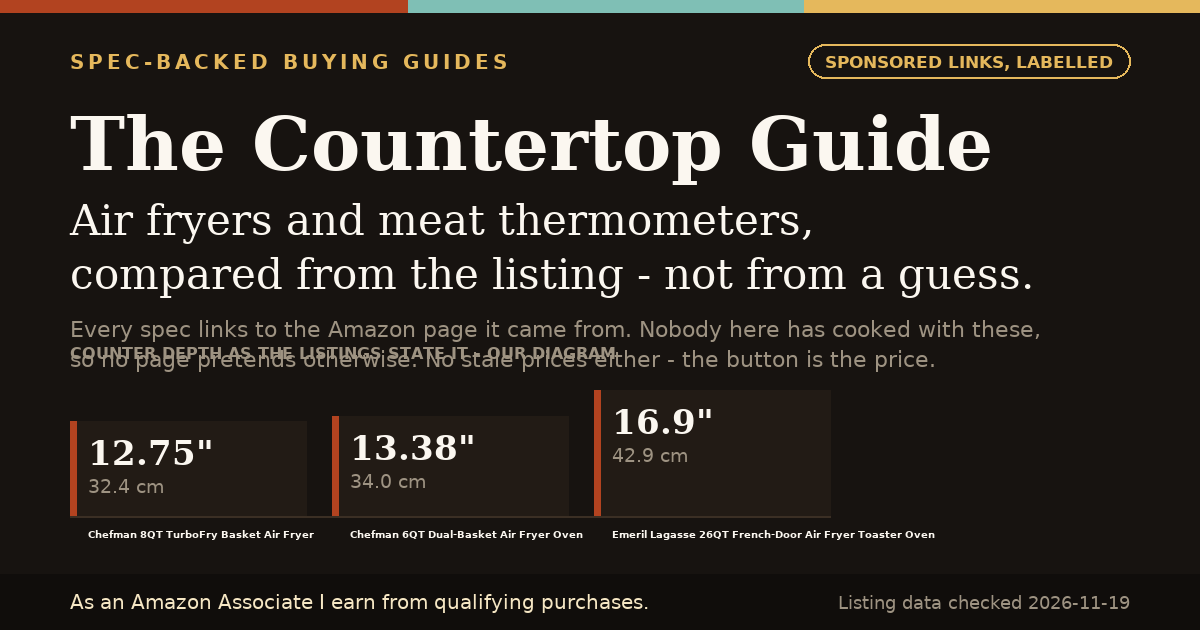
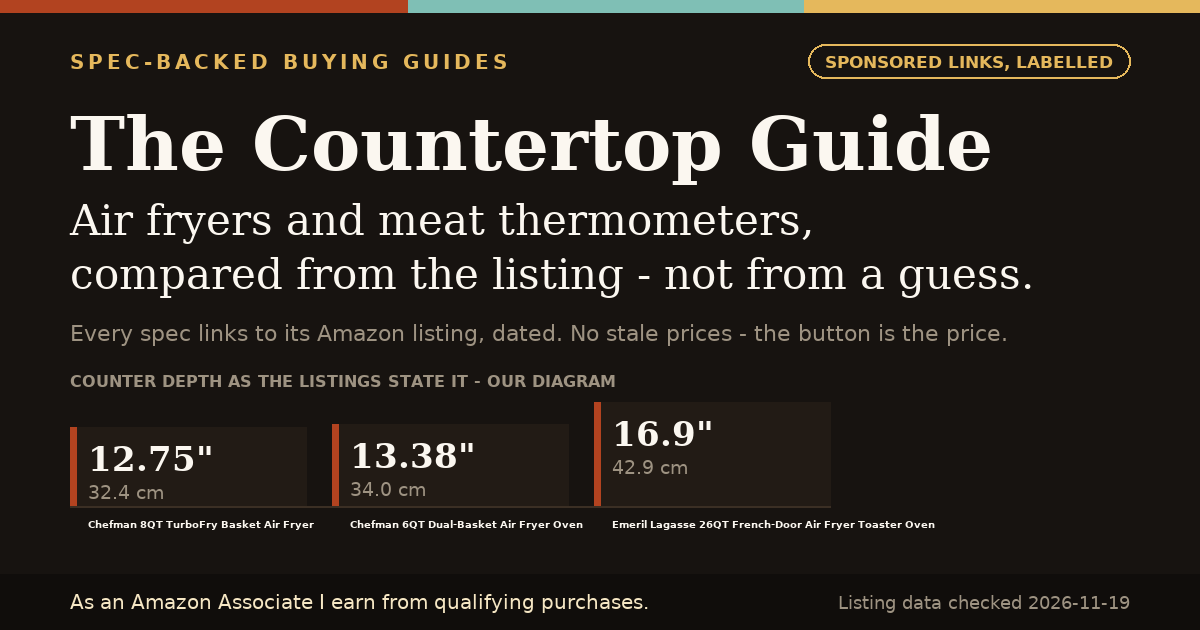
Fix the social card's overlapped copy; add the offer-channel question
- make_og.py placed the body copy at a fixed offset from the flowed headline and
  the diagram caption at a hard-coded y, so the two printed on top of each other
  in the deployed card. The card now flows one line of copy, derives the caption
  position from it, and asserts the caption clears the tallest bar before drawing.
  Byte-stable across runs (09cbdcede233fd4b).
- SG-44 / Q-28: where readers are supposed to find this site's offers - the fork
  under the price policy, the API-eligibility flag and the dated register. Left
  as a decision, not implemented: a stale figure on a feed is a policy problem.
- The row that counted the board now points at its registers instead, because
  every merge had made the number wrong.

Changed region(s): [[0.0617, 0.5127, 0.8633, 0.754], [0.0617, 0.6937, 0.7708, 0.8746]]

diff --git a/suggestions.html b/suggestions.html
@@ -94,6 +94,7 @@
 <tr id="SG-41"><td>SG-41</td><td>Trust bar under masthead: &quot;every fact sourced - see the register&quot; one-liner linking to verification.html on all pages</td><td>Turns the audit strength into a shopper-facing promise without leading with process</td><td>None</td><td>Low</td><td><span class="badge-ok&quot;>Shipped in this pass</span></td></tr>
 <tr id="SG-42"><td>SG-42</td><td>Decide disclosure wording: verbatim Operating Agreement §5 or site-named variant</td><td>§5 requires "As an Amazon Associate I earn from qualifying purchases." or a substantially similar previously allowed statement</td><td>Compliance review of current variant</td><td>Low</td><td>Resolved 2026-11-19: verbatim wording adopted</td></tr>
 <tr id="SG-43"><td>SG-43</td><td>Switch the Pages build source from &ldquo;deploy from branch&rdquo; to GitHub Actions, so a gate failure can block a publish rather than only marking the commit red</td><td>Today the deploy workflow builds, checks and gates, and then skips publishing because the repository&rsquo;s Pages source is the branch; the site is served from whatever is committed to <code>main</code>. Artifact publishing makes the two gates load-bearing.</td><td>Owner action in Settings &rarr; Pages &rarr; Build source (the token in this session cannot: <code>gh api -X PUT /repos/&hellip;/pages</code> returned 403 &ldquo;Resource not accessible by integration&rdquo;, observed 2026-11-19)</td><td>Low</td><td><span class="badge-warn">Needs owner action</span></td></tr>
+<tr id="SG-44"><td>SG-44</td><td>Decide the offer channel before the price policy is touched again</td><td>The site answers &ldquo;which one fits my counter&rdquo; and hands the reader to Amazon, which is a good guide and a weak destination. One offer surface, refreshed inside the window the license allows, is what turns a one-time reader into a return visit</td><td>Associates feed eligibility (FLG-037), a scheduled refresh job, and a read of the shopping-feed terms on the other side</td><td>High &mdash; and it is a fork: a stale figure here is a policy problem, not a typo</td><td><span class="badge-warn">Needs decision</span></td></tr>
 </table></div>
 
 <h2>New suggestions from this pass</h2>
@@ -285,7 +286,7 @@ it says specific things, admits its gaps, and never asks to be believed.
 <tr id="Q-11"><td>Q-11</td><td>What is the site's editorial voice, and what will it never claim?</td><td>No testing / trending / superlative claims today; voice statement is proposed</td><td>Owner sign-off on the voice statement</td><td>Review voice rules on design-brief.html</td><td>All content (SG-13, SG-14)</td></tr>
 <tr id="Q-12"><td>Q-12</td><td>Should the homepage lead with the comparison and chooser?</td><td>Current homepage leads with categories then data</td><td>Layout preference; impact on conversion vs. trust</td><td>Review homepage layout option in the brief</td><td>Homepage redesign (SG-16)</td></tr>
 <tr id="Q-13"><td>Q-13</td><td>Who are the named authors, and what bios go with them?</td><td>Guides currently say "The Countertop Guide editorial team"</td><td>Author identity and bio wording</td><td>Owner provides names/bios or keeps the team credit</td><td>Authorship (SG-17)</td></tr>
-<tr id="Q-14"><td>Q-14</td><td>What is the review SLA for this suggestions board?</td><td>Every row waits on an owner choice: 43 suggestions, 27 questions and 8 design inputs, merged into one board after three sessions wrote to it in parallel</td><td>Review cadence and who approves</td><td>Owner sets a review rhythm; approved items become tasks</td><td>All pending suggestions</td></tr>
+<tr id="Q-14"><td>Q-14</td><td>What is the review SLA for this suggestions board?</td><td>Every row waits on an owner choice: the full suggestions, questions and design-input registers on this page, merged from three passes that wrote to this board in parallel</td><td>Review cadence and who approves</td><td>Owner sets a review rhythm; approved items become tasks</td><td>All pending suggestions</td></tr>
 <tr id="Q-15"><td>Q-15</td><td>Does a price or rating figure belong on the page at all?</td><td>Program Policies allow a site to show price/availability only when Amazon serves the link containing it or via Creators/PA API, with 24-hour caching limits</td><td>Whether the owner accepts link-only pricing as the site&rsquo;s default</td><td>Read the clause next to the register (verification page links it); optionally ask Associates support in writing</td><td>SG-19, plus whether the register&rsquo;s dated figures stay visible anywhere</td></tr>
 <tr id="Q-16"><td>Q-16</td><td>What exactly unlocks the Creators/PA API?</td><td>Third-party guides consistently state three qualifying sales inside 180 days; we have not verified that on an Amazon page</td><td>The account&rsquo;s real eligibility and the application screen&rsquo;s wording</td><td>Associates Central &rarr; Tools &rarr; Product Advertising API / Creators API; screenshot the eligibility notice</td><td>SG-20 and every automation promise on this site</td></tr>
 <tr id="Q-17"><td>Q-17</td><td>Who is accountable for these claims?</td><td>Pages currently carry the editorial-desk byline, which is true</td><td>Whether a named person with a real bio takes the byline</td><td>Owner decision; publish a contact address and a corrections note either way</td><td>Authorship, any &ldquo;expert&rdquo; framing, and how corrections get handled</td></tr>
@@ -299,6 +300,7 @@ it says specific things, admits its gaps, and never asks to be believed.
 <tr id="Q-25"><td>Q-25</td><td>Are the five short links the only promotion surface, or will more ASINs be added?</td><td>Five ASINs verified and shippable; newer variants noted (FLG-003, SG-08)</td><td>Scope of catalogue growth; margin/commission data per category</td><td>Owner sets catalogue scope; commission data only from Associates reports (Q-05)</td><td>SG-10 expansion; revenue planning</td></tr>
 <tr id="Q-26"><td>Q-26</td><td>Should the disclosure use the verbatim §5 wording?</td><td>Current variant names the site instead of &quot;I&quot;; check script flagged it for owner review</td><td>— (resolved)</td><td>Resolved 2026-11-19 against Operating Agreement §5: verbatim wording adopted on all pages</td><td>Disclosure wording</td></tr>
 <tr id="Q-27"><td>Q-27</td><td>Who publishes this site, the branch or the workflow?</td><td>The workflow gates every push to <code>main</code>; GitHub&rsquo;s legacy branch build is what actually serves the pages. <a href="flagged.html#FLG-051">FLG-051</a> and <a href="suggestions.html#SG-43">SG-43</a></td><td>Whether to move Pages to the GitHub Actions build source</td><td>Owner: Settings &rarr; Pages &rarr; Build source &rarr; GitHub Actions; then the next deploy run publishes the artifact and a failed gate stops it</td><td>Every claim this site makes about automation being load-bearing</td></tr>
+<tr id="Q-28"><td>Q-28</td><td>Where is a reader supposed to find this site&rsquo;s offers?</td><td>No shopping-engine listing exists, no feed has been applied for, and no price figure is published outside the dated register</td><td>Whether to list offers anywhere at all, and which source is allowed to supply the numbers</td><td>Owner: read the Amazon Associates feed rules and the shopping-feed terms of any channel before applying, then pick one channel; the answer decides whether <a href="flagged.html#FLG-032">FLG-032</a> stays as the policy or gets a scheduled exception</td><td>Every social preview line, any future &ldquo;best price&rdquo; phrasing, and <a href="#SG-44">SG-44</a></td></tr>
 </table></div>
 
 <h2>What the evidence would look like, per decision</h2>

diff --git a/build_site.py b/build_site.py
@@ -607,6 +607,7 @@ sugg_body = f"""
 <tr id="SG-41"><td>SG-41</td><td>Trust bar under masthead: &quot;every fact sourced - see the register&quot; one-liner linking to verification.html on all pages</td><td>Turns the audit strength into a shopper-facing promise without leading with process</td><td>None</td><td>Low</td><td><span class="badge-ok&quot;>Shipped in this pass</span></td></tr>
 <tr id="SG-42"><td>SG-42</td><td>Decide disclosure wording: verbatim Operating Agreement §5 or site-named variant</td><td>§5 requires "As an Amazon Associate I earn from qualifying purchases." or a substantially similar previously allowed statement</td><td>Compliance review of current variant</td><td>Low</td><td>Resolved 2026-11-19: verbatim wording adopted</td></tr>
 <tr id="SG-43"><td>SG-43</td><td>Switch the Pages build source from &ldquo;deploy from branch&rdquo; to GitHub Actions, so a gate failure can block a publish rather than only marking the commit red</td><td>Today the deploy workflow builds, checks and gates, and then skips publishing because the repository&rsquo;s Pages source is the branch; the site is served from whatever is committed to <code>main</code>. Artifact publishing makes the two gates load-bearing.</td><td>Owner action in Settings &rarr; Pages &rarr; Build source (the token in this session cannot: <code>gh api -X PUT /repos/&hellip;/pages</code> returned 403 &ldquo;Resource not accessible by integration&rdquo;, observed 2026-11-19)</td><td>Low</td><td><span class="badge-warn">Needs owner action</span></td></tr>
+<tr id="SG-44"><td>SG-44</td><td>Decide the offer channel before the price policy is touched again</td><td>The site answers &ldquo;which one fits my counter&rdquo; and hands the reader to Amazon, which is a good guide and a weak destination. One offer surface, refreshed inside the window the license allows, is what turns a one-time reader into a return visit</td><td>Associates feed eligibility (FLG-037), a scheduled refresh job, and a read of the shopping-feed terms on the other side</td><td>High &mdash; and it is a fork: a stale figure here is a policy problem, not a typo</td><td><span class="badge-warn">Needs decision</span></td></tr>
 </table></div>
 
 <h2>New suggestions from this pass</h2>
@@ -798,7 +799,7 @@ it says specific things, admits its gaps, and never asks to be believed.
 <tr id="Q-11"><td>Q-11</td><td>What is the site's editorial voice, and what will it never claim?</td><td>No testing / trending / superlative claims today; voice statement is proposed</td><td>Owner sign-off on the voice statement</td><td>Review voice rules on design-brief.html</td><td>All content (SG-13, SG-14)</td></tr>
 <tr id="Q-12"><td>Q-12</td><td>Should the homepage lead with the comparison and chooser?</td><td>Current homepage leads with categories then data</td><td>Layout preference; impact on conversion vs. trust</td><td>Review homepage layout option in the brief</td><td>Homepage redesign (SG-16)</td></tr>
 <tr id="Q-13"><td>Q-13</td><td>Who are the named authors, and what bios go with them?</td><td>Guides currently say \"The Countertop Guide editorial team\"</td><td>Author identity and bio wording</td><td>Owner provides names/bios or keeps the team credit</td><td>Authorship (SG-17)</td></tr>
-<tr id="Q-14"><td>Q-14</td><td>What is the review SLA for this suggestions board?</td><td>Every row waits on an owner choice: 43 suggestions, 27 questions and 8 design inputs, merged into one board after three sessions wrote to it in parallel</td><td>Review cadence and who approves</td><td>Owner sets a review rhythm; approved items become tasks</td><td>All pending suggestions</td></tr>
+<tr id="Q-14"><td>Q-14</td><td>What is the review SLA for this suggestions board?</td><td>Every row waits on an owner choice: the full suggestions, questions and design-input registers on this page, merged from three passes that wrote to this board in parallel</td><td>Review cadence and who approves</td><td>Owner sets a review rhythm; approved items become tasks</td><td>All pending suggestions</td></tr>
 <tr id="Q-15"><td>Q-15</td><td>Does a price or rating figure belong on the page at all?</td><td>Program Policies allow a site to show price/availability only when Amazon serves the link containing it or via Creators/PA API, with 24-hour caching limits</td><td>Whether the owner accepts link-only pricing as the site&rsquo;s default</td><td>Read the clause next to the register (verification page links it); optionally ask Associates support in writing</td><td>SG-19, plus whether the register&rsquo;s dated figures stay visible anywhere</td></tr>
 <tr id="Q-16"><td>Q-16</td><td>What exactly unlocks the Creators/PA API?</td><td>Third-party guides consistently state three qualifying sales inside 180 days; we have not verified that on an Amazon page</td><td>The account&rsquo;s real eligibility and the application screen&rsquo;s wording</td><td>Associates Central &rarr; Tools &rarr; Product Advertising API / Creators API; screenshot the eligibility notice</td><td>SG-20 and every automation promise on this site</td></tr>
 <tr id="Q-17"><td>Q-17</td><td>Who is accountable for these claims?</td><td>Pages currently carry the editorial-desk byline, which is true</td><td>Whether a named person with a real bio takes the byline</td><td>Owner decision; publish a contact address and a corrections note either way</td><td>Authorship, any &ldquo;expert&rdquo; framing, and how corrections get handled</td></tr>
@@ -812,6 +813,7 @@ it says specific things, admits its gaps, and never asks to be believed.
 <tr id="Q-25"><td>Q-25</td><td>Are the five short links the only promotion surface, or will more ASINs be added?</td><td>Five ASINs verified and shippable; newer variants noted (FLG-003, SG-08)</td><td>Scope of catalogue growth; margin/commission data per category</td><td>Owner sets catalogue scope; commission data only from Associates reports (Q-05)</td><td>SG-10 expansion; revenue planning</td></tr>
 <tr id="Q-26"><td>Q-26</td><td>Should the disclosure use the verbatim §5 wording?</td><td>Current variant names the site instead of &quot;I&quot;; check script flagged it for owner review</td><td>— (resolved)</td><td>Resolved 2026-11-19 against Operating Agreement §5: verbatim wording adopted on all pages</td><td>Disclosure wording</td></tr>
 <tr id="Q-27"><td>Q-27</td><td>Who publishes this site, the branch or the workflow?</td><td>The workflow gates every push to <code>main</code>; GitHub&rsquo;s legacy branch build is what actually serves the pages. <a href="flagged.html#FLG-051">FLG-051</a> and <a href="suggestions.html#SG-43">SG-43</a></td><td>Whether to move Pages to the GitHub Actions build source</td><td>Owner: Settings &rarr; Pages &rarr; Build source &rarr; GitHub Actions; then the next deploy run publishes the artifact and a failed gate stops it</td><td>Every claim this site makes about automation being load-bearing</td></tr>
+<tr id="Q-28"><td>Q-28</td><td>Where is a reader supposed to find this site&rsquo;s offers?</td><td>No shopping-engine listing exists, no feed has been applied for, and no price figure is published outside the dated register</td><td>Whether to list offers anywhere at all, and which source is allowed to supply the numbers</td><td>Owner: read the Amazon Associates feed rules and the shopping-feed terms of any channel before applying, then pick one channel; the answer decides whether <a href="flagged.html#FLG-032">FLG-032</a> stays as the policy or gets a scheduled exception</td><td>Every social preview line, any future &ldquo;best price&rdquo; phrasing, and <a href="#SG-44">SG-44</a></td></tr>
 </table></div>
 
 <h2>What the evidence would look like, per decision</h2>

diff --git a/scripts/make_og.py b/scripts/make_og.py
@@ -67,19 +67,25 @@ def main():
         s, wdt = fit(d, line, "serifr", 42, RIGHT - M)
         d.text((M, y), line, font=font("serifr", s), fill=PAPER)
         y += s + 12
-    s, _ = fit(d, "Every spec links to the Amazon page it came from. Nobody here has cooked with these,", "sans", 22, RIGHT - M)
-    d.text((M, y + 12), "Every spec links to the Amazon page it came from. Nobody here has cooked with these,", font=font("sans", s), fill=MUTED)
-    d.text((M, y + 42), "so no page pretends otherwise. No stale prices either - the button is the price.", font=font("sans", s), fill=MUTED)
+    # One line, not a paragraph: at 1200x630 a second line collided with the diagram
+    # caption once the serif lines grew. Every element below is placed from the flowed y,
+    # so a longer headline cannot walk into it the way fixed offsets did.
+    tag = "Every spec links to its Amazon listing, dated. No stale prices - the button is the price."
+    s, _ = fit(d, tag, "sans", 22, RIGHT - M)
+    d.text((M, y + 16), tag, font=font("sans", s), fill=MUTED)
+    y += s + 16
 
     # our own diagram, from the dimensions the listings state
-    bars, y0, scale, bw, gap = [], 516, 7.5, 236, 26
+    bars, y0, scale, bw, gap = [], 506, 6.2, 236, 26
     for pid in ("P3", "P1", "P2"):
         v = depth_of(pid)
         if v:
             nm = PRODS[pid]["shortName"]
             nm = nm.replace(PRODS[pid]["brand"], "").strip() or PRODS[pid]["shortName"]
             bars.append((PRODS[pid]["brand"] + " " + nm, v))
-    d.text((M, 344), "COUNTER DEPTH AS THE LISTINGS STATE IT - OUR DIAGRAM", font=font("sansb", 16), fill=MUTED)
+    cap_y = y + 30                      # flowed: never lands on the copy above it
+    d.text((M, cap_y), "COUNTER DEPTH AS THE LISTINGS STATE IT - OUR DIAGRAM", font=font("sansb", 16), fill=MUTED)
+    assert cap_y + 16 < y0 - int(max(v for _, v in bars) * scale), "caption would collide with the tallest bar"
     x = M
     for name, depth in bars:
         hgt = int(depth * scale)

diff --git a/COORDINATION.md b/COORDINATION.md
@@ -312,3 +312,9 @@ Session ID: **f0db58ea** (branch `arena/f0db58ea-prod1`, base `7f98eec`).
 - **Runs for `cc32834`, both green:** `Deploy GitHub Pages` (build → determinism check → `check_site.mjs` → `check_meta.mjs` → source-aware publish skip) and `pages build and deployment` (GitHub's own branch publisher). For comparison, the run for `d5f06f6` is red only because it still contained the unconditional `deploy-pages` step; the log confirms the failure was that single step.
 - **Live verified by fetch, not by assumption:** `https://wingbangboozle1-lang.github.io/Prod1/` serves the storefront front page with dated source links, `flagged.html` serves the merged register including `FLG-021`/`FLG-022` from `2ec8638e` and `FLG-032`… from this pass, and `guide-small-kitchen.html` serves the consolidation page with its canonical and the og card at `assets/og-image.png`. `sitemap.xml` publishes 21 URLs.
 - **Sandbox note for the next session:** `curl` from this workspace reaches only the allowlisted hosts, so `github.io` returns nothing; use the page-fetch tool for live checks instead of concluding the site is down.
+
+### Follow-up (b49d8595): the social card had a real collision, and the board gained the offer-channel question
+
+- **`assets/og-image.png` was inspected, not just generated** — and it was broken: the second line of body copy was placed at a fixed offset from the flowed headline block while the diagram caption sat at a hard-coded `y = 344`, so the two overlapped on the deployed card. `scripts/make_og.py` now flows a single line of body copy and derives the caption's `y` from it, with an `assert` that fails the build if the caption would land inside the tallest bar — the class of bug is closed, not just this instance. Output is byte-stable for this Pillow build (`sha256 09cbdcede233fd4b…` across consecutive runs), which is why the CI drift step can keep excluding the PNG.
+- **`SG-44` / `Q-28` added to the board:** where a reader is supposed to find this site's offers. It is the fork behind several other rows (price policy `FLG-032`, API eligibility `FLG-037`, the dated register `FLG-033`), and none of them can be answered well without it. Marked **Needs decision**, high effort, and deliberately not implemented: a stale price on a shopping feed is a policy problem, not a typo.
+- **The board's own count claim was removed** rather than renumbered a fourth time — the row now points at the registers instead of counting them, because every merge made the number wrong.
